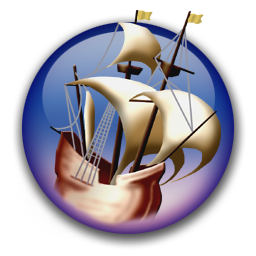
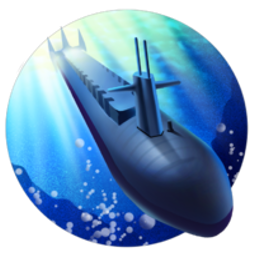
Поправил рамку, добавил альтернативную картинку

diff --git a/src/com/example/ship/SceletonActivity.java b/src/com/example/ship/SceletonActivity.java
@@ -95,10 +95,13 @@ public class SceletonActivity extends BaseGameActivity {
                                         , shipTextureRegion
                                         , mEngine.getVertexBufferObjectManager());
 
-        Sprite backSprite = new Sprite(0
-                , 0
-                , backTextureRegion
-                , mEngine.getVertexBufferObjectManager());
+        final float backSpriteX = TEXTURE_WIDTH * 0.5f - backTextureRegion.getWidth() * 0.5f;
+        final float backSpriteY = TEXTURE_HEIGHT * 0.5f - backTextureRegion.getHeight() * 0.5f;
+
+        Sprite backSprite = new Sprite(backSpriteX
+                                        , backSpriteY
+                                        , backTextureRegion
+                                        , mEngine.getVertexBufferObjectManager());
 
         scene.attachChild(backSprite);
         scene.attachChild(shipSprite);
